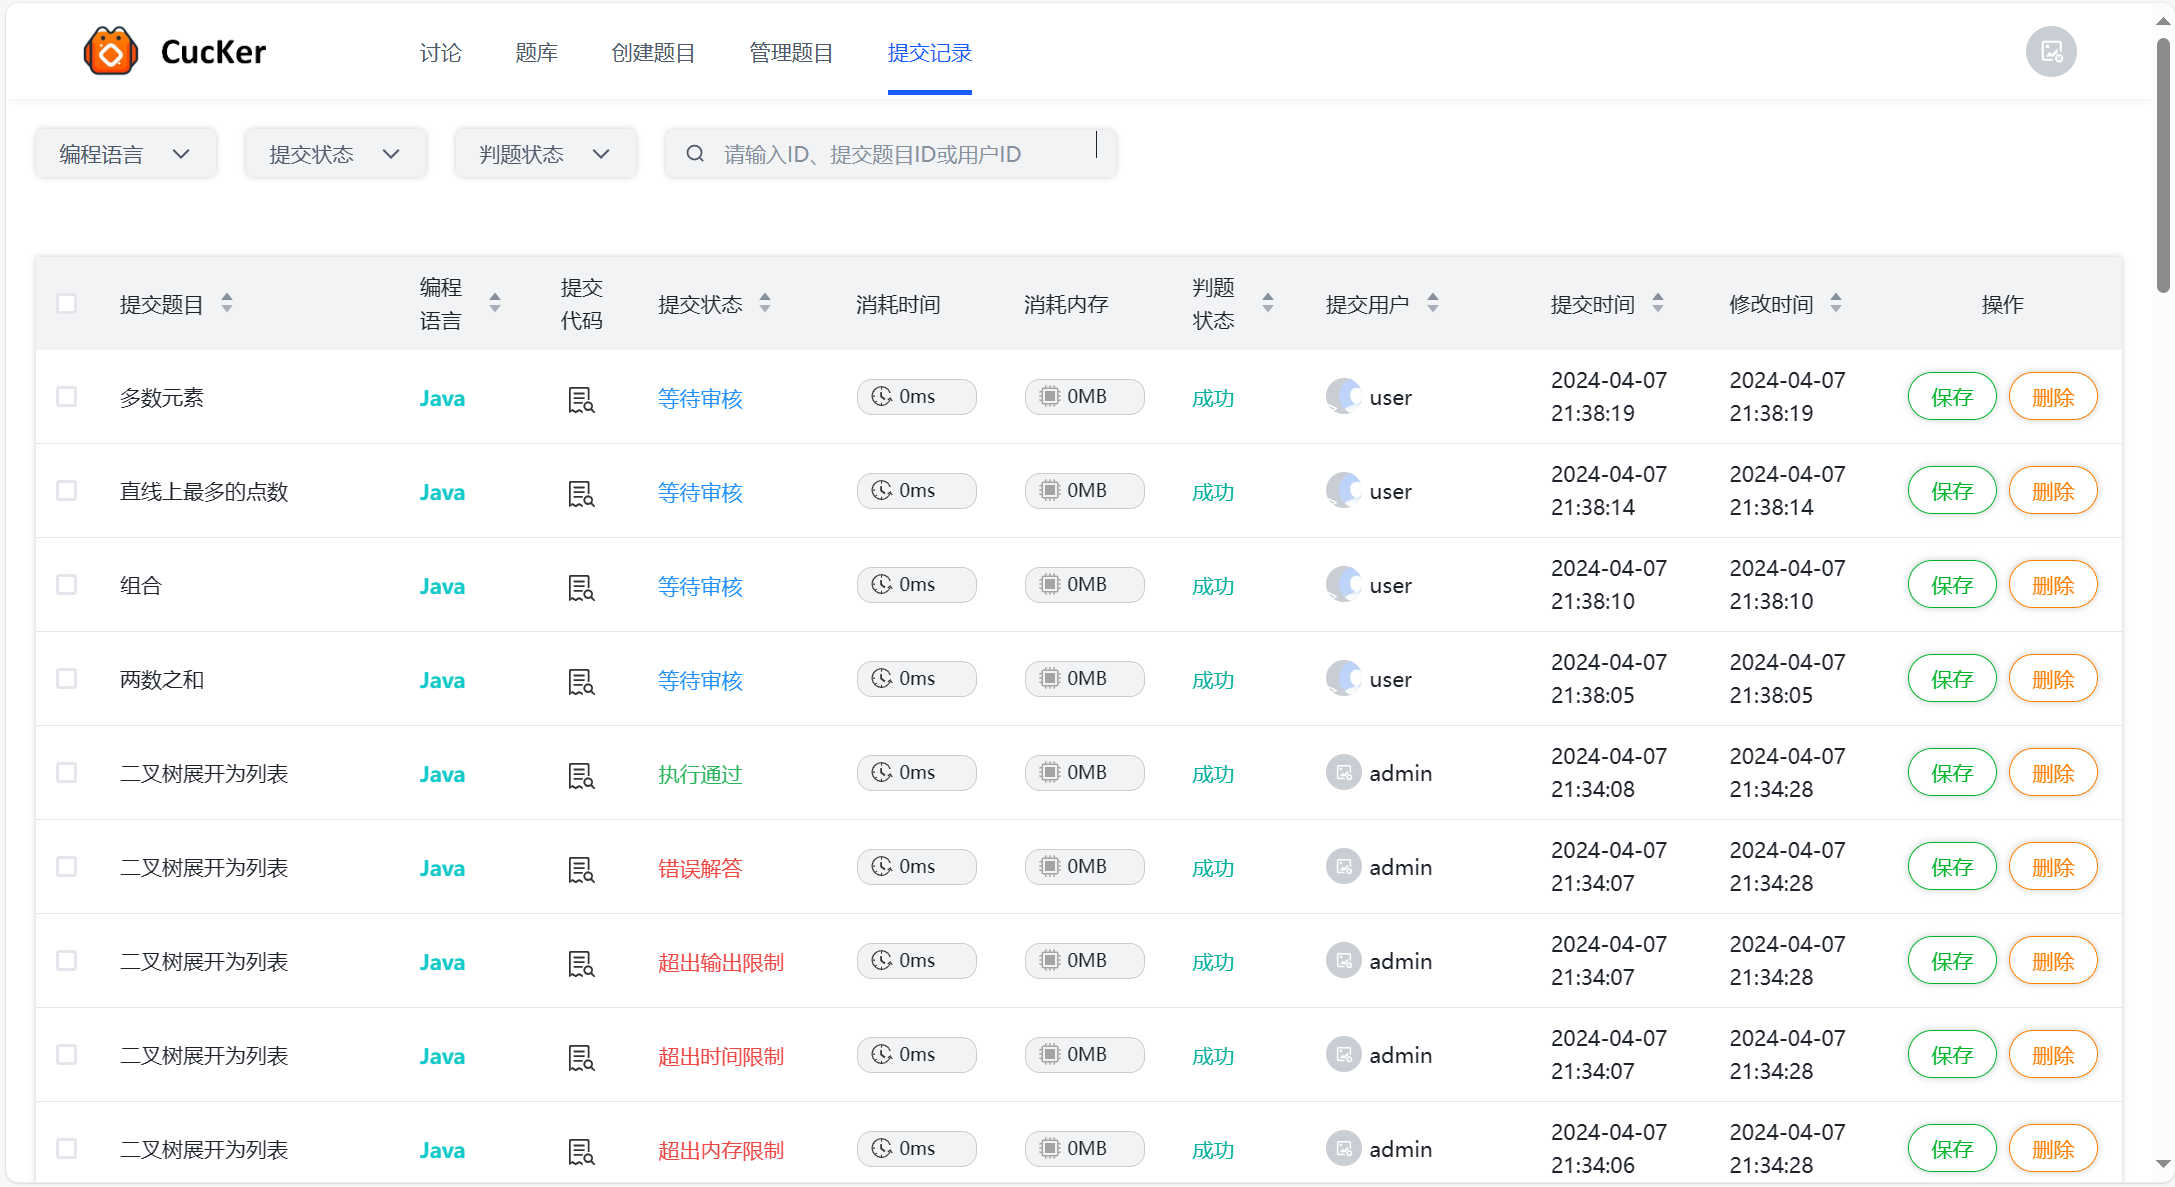
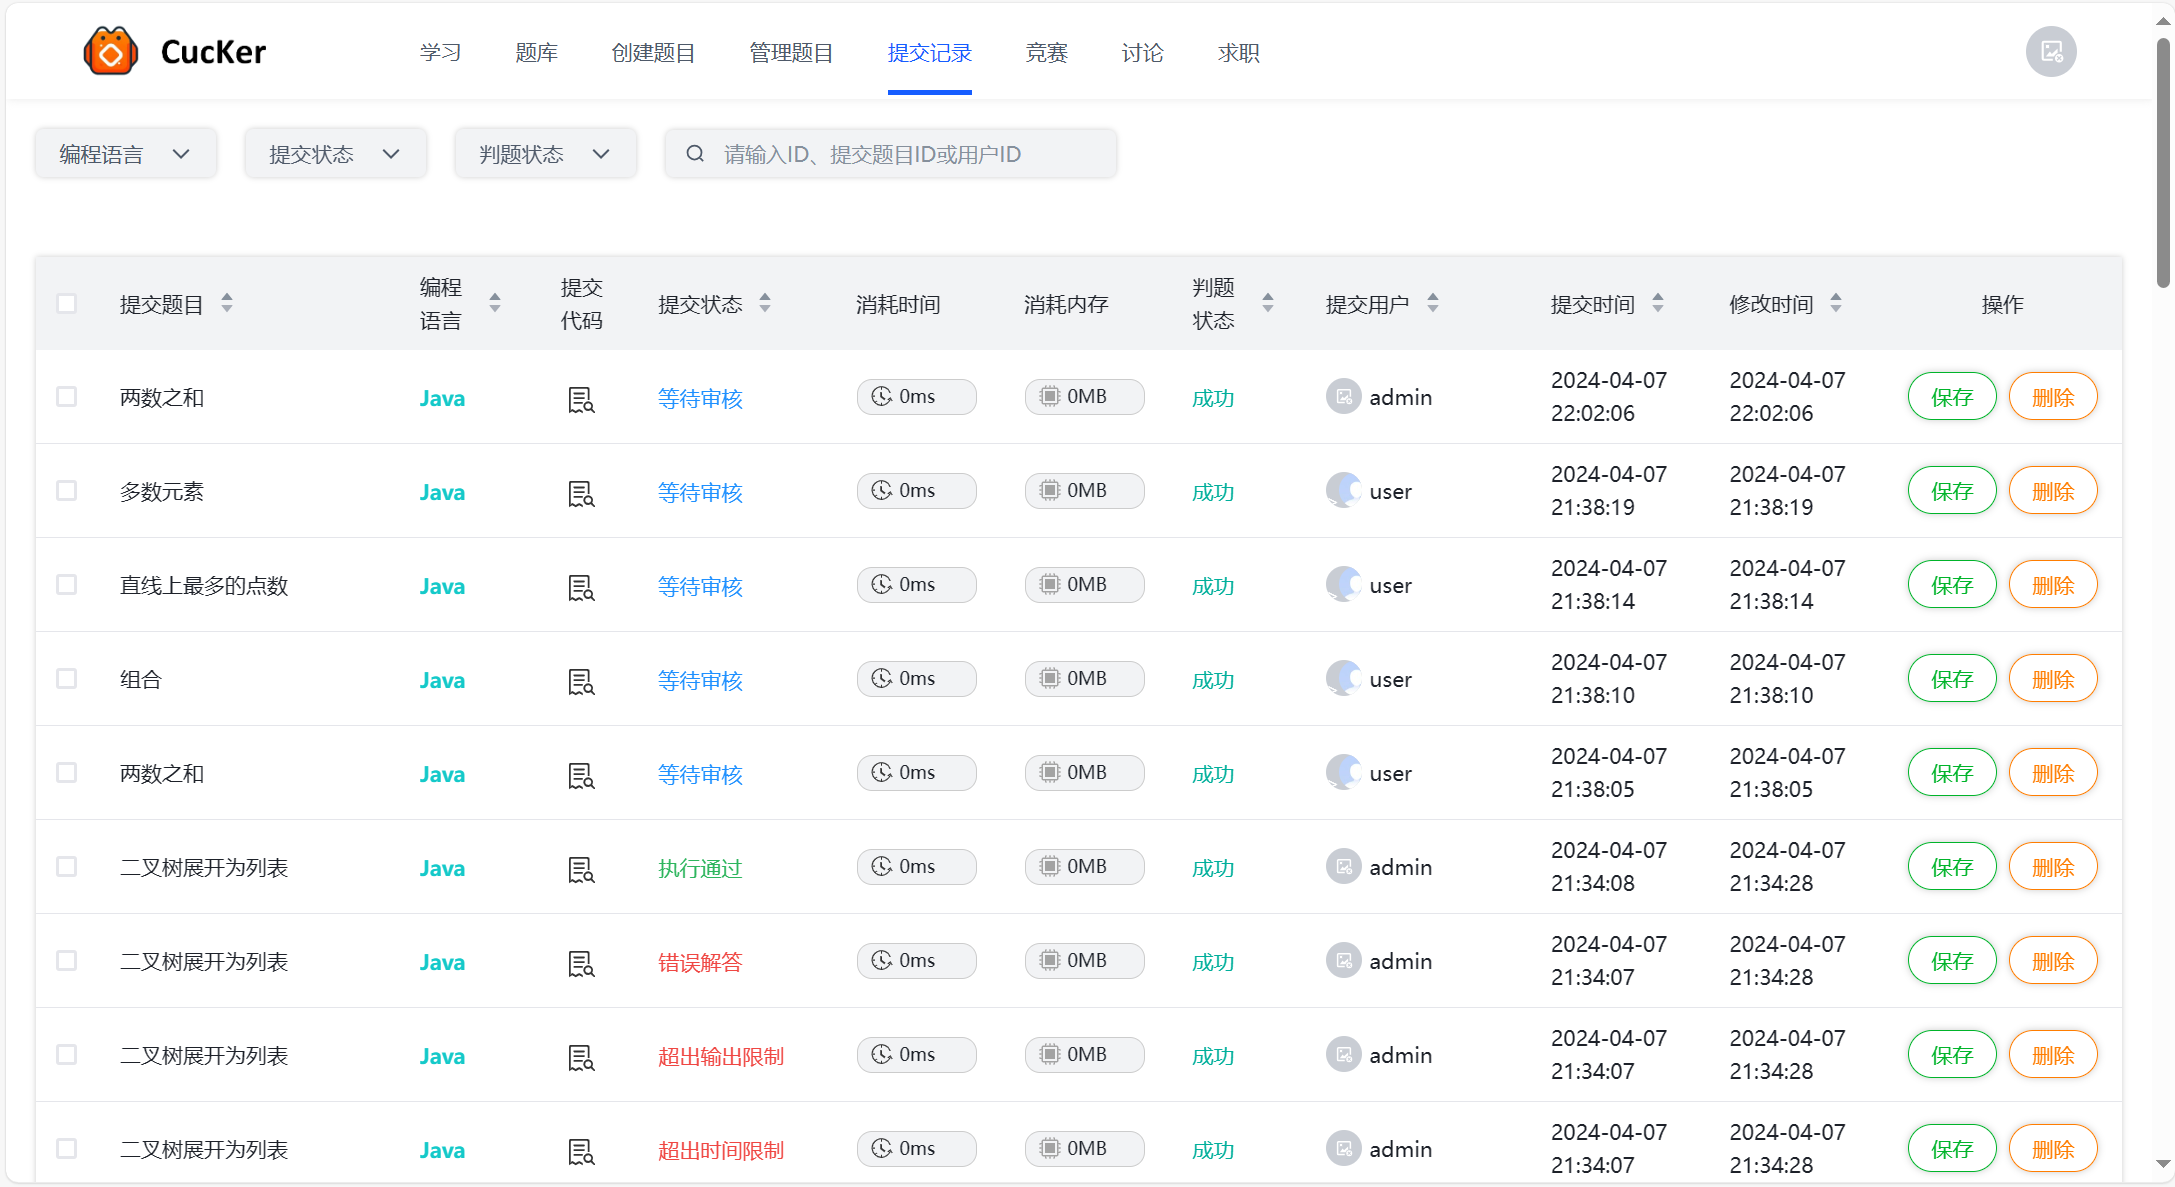
update

diff --git a/src/router/router.ts b/src/router/router.ts
@@ -15,19 +15,14 @@ import PersonalHomePageView from "@/views/user/PersonalHomePageView.vue";
 import LearningView from "@/views/study/LearningView.vue";
 
 export const routes: Array<RouteRecordRaw> = [
-  // {
-  //   path: "/study",
-  //   name: "学习",
-  //   component: LearningView,
-  // },
   {
     path: "/",
     redirect: "/questions", // 添加重定向规则，将根路径重定向到/questions
   },
   {
-    path: "/post",
-    name: "讨论",
-    component: PostView,
+    path: "/study",
+    name: "学习",
+    component: LearningView,
   },
   {
     path: "/questions",
@@ -70,7 +65,6 @@ export const routes: Array<RouteRecordRaw> = [
       access: ACCESS_ENUM.ADMIN,
     },
   },
-  // {
   //   path: "/personal/center",
   //   name: "用户中心",
   //   component: PersonalCenterView,
@@ -97,7 +91,7 @@ export const routes: Array<RouteRecordRaw> = [
       hideInMenu: true,
     },
   },
-
+  // {
   {
     path: "/questions/:category",
     component: QuestionsView,
@@ -112,6 +106,21 @@ export const routes: Array<RouteRecordRaw> = [
     meta: {
       access: ACCESS_ENUM.ADMIN,
     },
+  },
+  {
+    path: "/contest",
+    name: "竞赛",
+    component: PostView,
+  },
+  {
+    path: "/post",
+    name: "讨论",
+    component: PostView,
+  },
+  {
+    path: "/company",
+    name: "求职",
+    component: PostView,
   },
   {
     path: "/view/question/:id/:category?/:questionSubmitId?",

diff --git a/src/components/GlobalHeader.vue b/src/components/GlobalHeader.vue
@@ -6,7 +6,7 @@
     :wrap="false"
     style="margin-right: 50px"
   >
-    <a-col flex="6">
+    <a-col flex="8">
       <a-menu
         mode="horizontal"
         :selected-keys="selectedKeys"
@@ -34,7 +34,6 @@
       </a-menu>
     </a-col>
     <a-col flex="1"></a-col>
-    <a-col flex="2"></a-col>
     <a-col flex="2" style="display: flex; justify-content: flex-end">
       <!-- 登录按钮 和 头像 -->
       <div style="display: flex; justify-content: center; margin-left: 10px">
